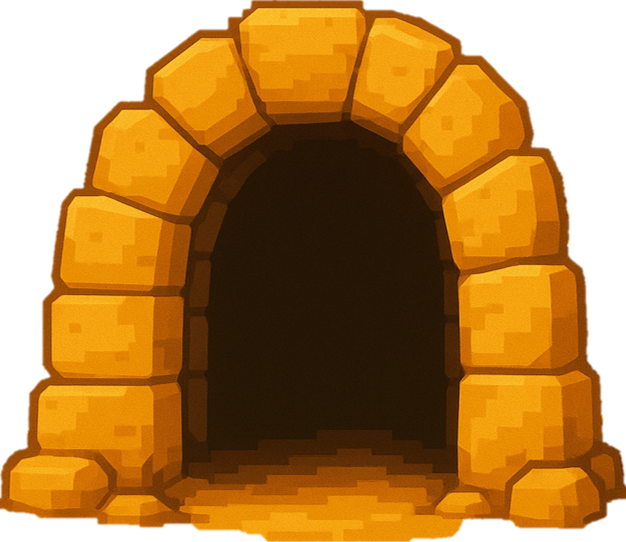
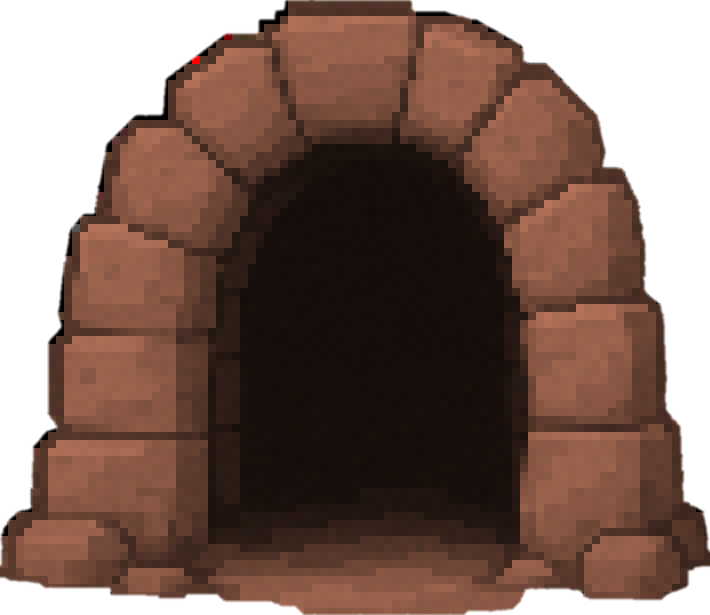
Transition screen image added for level 2 to level 3

diff --git a/docs/src/GameScreen.js b/docs/src/GameScreen.js
@@ -227,7 +227,7 @@ class GameScreen {
             fill(0, 0, 0, 180);
             noStroke();
             rect(boxX + 162, boxY - 22, 20, 30, 0);
-            rect(boxX + 91, boxY + 16, 155, 30, 0);
+            rect(boxX + 125, boxY + 16, 100, 30, 0);
 
             textFont('DinoEscapeMainPixelFont');
             stroke("black");
@@ -235,7 +235,7 @@ class GameScreen {
             textSize(18);
             fill(255);
             text("Press ⬆ to play again", width / 2, height - 70);
-            text("Press ESCAPE / Q for home page", width / 2, height - 30);
+            text("Press ESCAPE for home page", width / 2, height - 30);
 
         }
     }
@@ -259,7 +259,7 @@ class GameScreen {
                 textSize(30);
                 fill(255, 50, 50); // Bright red
                 stroke(0);
-                text("🔥 Volcano Era Survived!", width / 2 - 100, 50);
+                text("Volcano Era Survived!", width / 2 - 100, 50);
                 break;
             case 1:
                 image(this.assetManager.level2CompleteBackground, width / 2, height / 2, width, height);
@@ -301,7 +301,7 @@ class GameScreen {
             fill(0, 0, 0, 180);
             noStroke();
             rect(boxX + 200, boxY - 2, 20, 30, 0);
-            rect(boxX + 172, boxY + 38, 150, 30, 0);
+            rect(boxX + 195, boxY + 38, 100, 30, 0);
 
             textFont('DinoEscapeMainPixelFont');
             stroke("black");
@@ -309,7 +309,7 @@ class GameScreen {
             textSize(18);
             fill(255);
             text("Press ⬆ to start next level", width / 2, height - 70);
-            text("Press ESCAPE / Q for home page", width / 2, height - 30);
+            text("Press ESCAPE for home page", width / 2, height - 30);
 
         }
     }

diff --git a/docs/src/AssetManager.js b/docs/src/AssetManager.js
@@ -17,7 +17,7 @@ class AssetManager {
         this.gameOverByDesert = loadImage('assets/background/screen_lv3Dead.jpeg');
 
         this.level1CompleteBackground = loadImage('assets/background/screen_lv1ToLv2.png');
-        this.level2CompleteBackground = loadImage('assets/background/screen_lv1ToLv2.png');
+        this.level2CompleteBackground = loadImage('assets/background/screen_lv2ToLv3.png');
         this.gameWon = loadImage('assets/background/screen_Win.png');
         this.instructionsPage = loadImage('assets/background/instructions.png');
         

diff --git a/docs/src/items/SkyFall.js b/docs/src/items/SkyFall.js
@@ -47,7 +47,7 @@ class SkyFall {
   }
 
   /**
-   * Updates the falling object based on its interaction with player
+   * Updates the falling object based on whether it has landed or not.
    */
   updateSkyFall() {
     if (this.hasLanded) {
